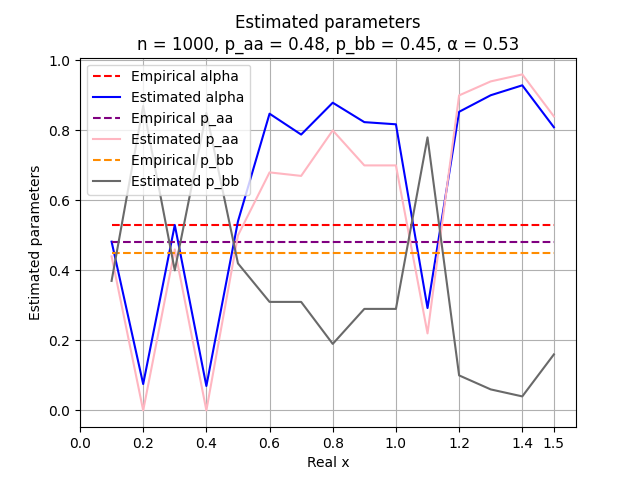
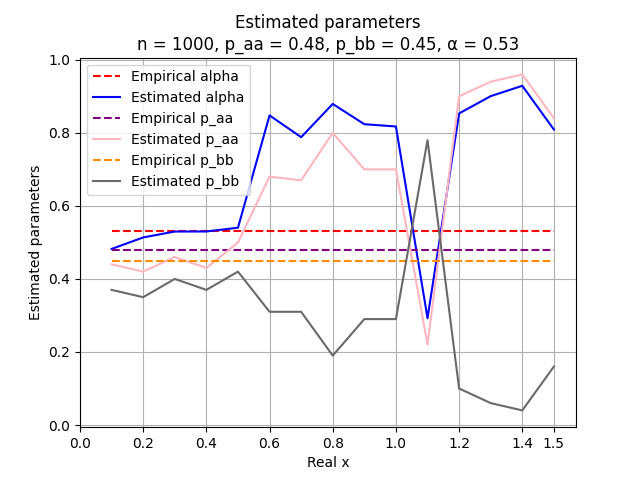
estimate_alpha returns an empty array if there is no condidates

diff --git a/3d_fragile_breakage_model/src/true_evolutionary_distance.py b/3d_fragile_breakage_model/src/true_evolutionary_distance.py
@@ -149,22 +149,22 @@ def find_true_evolution_dist_fixed_parameters(graph, p_aa, p_bb, alpha):
     r = 1.5 + step
 
     min_error = 1e10
-    best_analytical_x = 0.0
+    best_x = 0.0
 
     for x in np.arange(l, r, step):
         error = compute_error(x, p_aa, p_bb, alpha, graph, empirical_b)
         if error < min_error:
-            best_analytical_x = x
+            best_x = x
             min_error = error
 
-    analytical_b_n = compute_analytically_b_n(best_analytical_x, p_aa, p_bb, alpha)
+    analytical_b_n = compute_analytically_b_n(best_x, p_aa, p_bb, alpha)
     analytical_n = empirical_b / analytical_b_n
-    estimated_true_dist = best_analytical_x * analytical_n
+    estimated_true_dist = best_x * analytical_n
 
     return {
         "empirical_min_dist": empirical_d,
         "estimated_true_dist": estimated_true_dist,
-        "best_x": best_analytical_x,
+        "best_x": best_x,
         "min_error": min_error,
     }
 
@@ -208,9 +208,6 @@ def find_true_evolution_dist_with_parameters_using_skopt(graph, n_calls):
             graph.cycle_types["AB"],
             graph.cycle_types["BB"],
         )
-        if alphas[0] == -1:
-            return max_score
-
         min_error = max_score
         for alpha in alphas:
             error = compute_error(x, p_aa, p_bb, alpha, graph, empirical_b)
@@ -269,7 +266,7 @@ def find_true_evolution_dist_and_find_parameters0(graph):
     empirical_d = compute_empirical_d(graph)
     empirical_b = compute_empirical_b(graph)
 
-    step_x = 1e-3
+    step_x = 5e-4
     l_x = step_x
     r_x = 1.5 + step_x
 
@@ -279,16 +276,17 @@ def find_true_evolution_dist_and_find_parameters0(graph):
     best_p_aa = 0.0
     best_p_bb = 0.0
     best_alpha = 0.0
-    p_err = 100
-    ps_range = list(map(lambda p: p / p_err, range(1, p_err + 1)))
+    p_step = 0.01
 
     for x in np.arange(l_x, r_x, step_x):
-        for p_aa in ps_range:
-            for alpha in ps_range:
+        for p_aa in np.arange(p_step, 1, p_step):
+            for alpha in np.arange(p_step, 1, p_step):
                 p_ab = compute_p_ab(
                     x, p_aa, alpha, graph.cycle_types["AA"], graph.cycle_types["AAA"]
                 )
-                p_bb = 1 - p_aa - p_ab
+                p_bb = max(1 - p_aa - p_ab, 0.0)
+                if p_aa < p_ab or p_bb < p_ab:
+                    continue
 
                 error = compute_error(x, p_aa, p_bb, alpha, graph, empirical_b)
                 if error < min_error:
@@ -324,19 +322,16 @@ def find_true_evolution_dist_and_find_parameters1(graph):
 
     min_error = 1e10
 
-    best_analytical_x = 0.0
+    best_x = 0.0
     best_p_aa = 0.0
     best_p_bb = 0.0
     best_alpha = 0.0
-    p_err = 100
+    p_step = 0.01
 
     for x in np.arange(l_x, r_x, step_x):
-        for p_aa_err in range(1, p_err):
-            for p_ab_err in range(min(p_err // 3, (100 - p_aa_err) // 2)):
-                p_aa = p_aa_err / p_err
-                p_ab = p_ab_err / p_err
+        for p_aa in np.arange(p_step, 1, p_step):
+            for p_ab in np.arange(0, min(1 / 3, (1 - p_aa) / 2), p_step):
                 p_bb = max(1 - p_aa - p_ab, 0.0)
-
                 alphas = estimate_alpha(
                     x,
                     p_aa,
@@ -345,28 +340,24 @@ def find_true_evolution_dist_and_find_parameters1(graph):
                     graph.cycle_types["AB"],
                     graph.cycle_types["BB"],
                 )
-                if alphas[0] == -1:
-                    continue
 
                 for alpha in alphas:
                     error = compute_error(x, p_aa, p_bb, alpha, graph, empirical_b)
                     if error < min_error:
-                        best_analytical_x = x
+                        best_x = x
                         best_p_aa = p_aa
                         best_p_bb = p_bb
                         best_alpha = alpha
                         min_error = error
 
-    analytical_b_n = compute_analytically_b_n(
-        best_analytical_x, best_p_aa, best_p_bb, best_alpha
-    )
+    analytical_b_n = compute_analytically_b_n(best_x, best_p_aa, best_p_bb, best_alpha)
     analytical_n = empirical_b / analytical_b_n
-    estimated_true_dist = best_analytical_x * analytical_n
+    estimated_true_dist = best_x * analytical_n
 
     return {
         "empirical_min_dist": empirical_d,
         "estimated_true_dist": estimated_true_dist,
-        "best_x": best_analytical_x,
+        "best_x": best_x,
         "best_p_aa": best_p_aa,
         "best_p_bb": best_p_bb,
         "best_alpha": best_alpha,
@@ -406,7 +397,8 @@ def compute_true_evolutionary_distance(parameter_index, method):
         #     graph, p_aa, p_bb, alpha
         # )
 
-        cur_dist_info = find_true_evolution_dist_and_find_parameters1(graph)
+        cur_dist_info = find_true_evolution_dist_and_find_parameters0(graph)
+        # cur_dist_info = find_true_evolution_dist_and_find_parameters1(graph)
         # cur_dist_info = find_true_evolution_dist_with_parameters_using_skopt(
         #     graph, 2000
         # )
@@ -423,6 +415,12 @@ def compute_true_evolutionary_distance(parameter_index, method):
                 k,
                 "best x:",
                 cur_dist_info["best_x"],
+                "best_p_aa:",
+                cur_dist_info["best_p_aa"],
+                "best_p_bb:",
+                cur_dist_info["best_p_bb"],
+                "best_alpha:",
+                cur_dist_info["best_alpha"],
                 "min error:",
                 cur_dist_info["min_error"],
                 "time:",
@@ -432,7 +430,7 @@ def compute_true_evolutionary_distance(parameter_index, method):
 
     log_dictionaries(
         dist_info,
-        "3d_fragile_breakage_model/logs/true_evolution_distance_fixed/"
+        "3d_fragile_breakage_model/logs/true_evolution_distance_found_parameters/"
         + method
         + "/"
         + file
@@ -646,11 +644,11 @@ def draw_true_dist_with_additional_plot(
 
 
 if __name__ == "__main__":
-    compute_true_evolutionary_distance(parameter_index=4, method="1_without0")
+    compute_true_evolutionary_distance(parameter_index=4, method="0")
     draw_true_dist_for_parameters(
-        "true_evolution_distance_found_parameters/1_without0/",
+        "true_evolution_distance_found_parameters/0/",
         parameter_index=4,
-        draw_parameters=False,
+        draw_parameters=True,
     )
     # draw_true_dist_with_additional_plot(
     #     "true_evolution_distance_found_parameters/",

diff --git a/3d_fragile_breakage_model/src/compute_statistics.py b/3d_fragile_breakage_model/src/compute_statistics.py
@@ -175,9 +175,9 @@ def compute_p_ab(x, p_aa, alpha, aa_cycles, aaa_cycles):
 def estimate_alpha(x, p_aa, p_bb, aa_cycles, ab_cycles, bb_cycles):
     def check_alphas(alpha1, alpha2):
         if alpha1 <= 0 and alpha2 <= 0:
-            return [-1]
+            return []
         elif 1 <= alpha1 and 1 <= alpha2:
-            return [-1]
+            return []
         elif 0 < alpha1 < 1 and 0 < alpha2 < 1:
             return [alpha1, alpha2]
 
@@ -197,14 +197,14 @@ def estimate_alpha(x, p_aa, p_bb, aa_cycles, ab_cycles, bb_cycles):
             y1 = math.log(aa_cycles_divide_bb * p_bb / p_aa) / x
             d = 16 + y1 ** 2 + 8 * y1 * p_aa - 8 * y1 * p_bb
             if d < 0:
-                return [-1]
+                return []
             elif d == 0:
                 alpha1 = (y1 - 4) / (2 * y1)
                 return [alpha1]
             alpha1 = (math.sqrt(d) + y1 - 4) / (2 * y1)
             alpha2 = (-1 * math.sqrt(d) + y1 - 4) / (2 * y1)
             return check_alphas(alpha1, alpha2)
-        return [-1]
+        return []
 
     def estimate_alpha_aa_ab():
         if (
@@ -218,7 +218,7 @@ def estimate_alpha(x, p_aa, p_bb, aa_cycles, ab_cycles, bb_cycles):
             y1 = math.log(aa_cycles_divide_ab * p_ab / p_aa) / x
             d = 4 + y1 ** 2 - 4 * y1 * p_bb + 4 * y1 * p_aa
             if d < 0:
-                return [-1]
+                return []
             if d == 0:
                 alpha1 = (-2 + y1) / (2 * y1)
                 return [alpha1]
@@ -226,7 +226,7 @@ def estimate_alpha(x, p_aa, p_bb, aa_cycles, ab_cycles, bb_cycles):
             alpha1 = (math.sqrt(d) - 2 + y1) / (2 * y1)
             alpha2 = (-1 * math.sqrt(d) - 2 + y1) / (2 * y1)
             return check_alphas(alpha1, alpha2)
-        return [-1]
+        return []
 
     def estimate_alpha_bb_ab():
         if (
@@ -240,17 +240,17 @@ def estimate_alpha(x, p_aa, p_bb, aa_cycles, ab_cycles, bb_cycles):
             y1 = math.log(bb_cycles_divide_ab * p_ab / p_bb) / x
             d = y1 ** 2 + 4 + 4 * y1 * p_bb - 4 * y1 * p_aa
             if d < 0:
-                return [-1]
+                return []
             if d == 0:
                 alpha1 = (y1 + 2) / (2 * y1)
                 return [alpha1]
             alpha1 = (math.sqrt(d) + y1 + 2) / (2 * y1)
             alpha2 = (-1 * math.sqrt(d) + y1 + 2) / (2 * y1)
             return check_alphas(alpha1, alpha2)
-        return [-1]
+        return []
 
     if aa_cycles == 0 and bb_cycles == 0:
-        return [-1]
+        return []
     if aa_cycles == 0 and ab_cycles == 0:
         return [0]
     if bb_cycles == 0 and ab_cycles == 0:
@@ -261,19 +261,19 @@ def estimate_alpha(x, p_aa, p_bb, aa_cycles, ab_cycles, bb_cycles):
     alpha_aa_ab = estimate_alpha_aa_ab()
     alpha_bb_ab = estimate_alpha_bb_ab()
 
-    res_alpha = [-1]
+    res_alpha = []
     dif_p_aa_p_bb = abs(p_aa - p_bb)
     dif_p_aa_p_ab = abs(p_aa - p_ab)
     dif_p_bb_p_ab = abs(p_bb - p_ab)
 
-    if alpha_aa_bb[0] != -1:
+    if alpha_aa_bb:
         res_alpha = alpha_aa_bb
 
-    if alpha_bb_ab[0] != -1 and (res_alpha[0] == -1 or dif_p_bb_p_ab < dif_p_aa_p_bb):
+    if alpha_bb_ab and (not res_alpha or dif_p_bb_p_ab < dif_p_aa_p_bb):
         res_alpha = alpha_bb_ab
 
-    if alpha_aa_ab[0] != -1 and (
-        res_alpha[0] == -1
+    if alpha_aa_ab and (
+        not res_alpha
         or (dif_p_aa_p_ab < dif_p_aa_p_bb and dif_p_aa_p_ab < dif_p_bb_p_ab)
     ):
         res_alpha = alpha_aa_ab
@@ -320,7 +320,8 @@ def estimate_alphas_for_graphs(start_ind, end_ind):
             )
             if len(cur_alpha) > 1:
                 print("two alphas")
-            alphas.append(cur_alpha[0])
+            if cur_alpha:
+                alphas.append(cur_alpha[0])
 
         steps = len(graphs)
         parameters_for_plot_title = build_parameters_for_plot_title(p_aa, p_bb, alpha)
